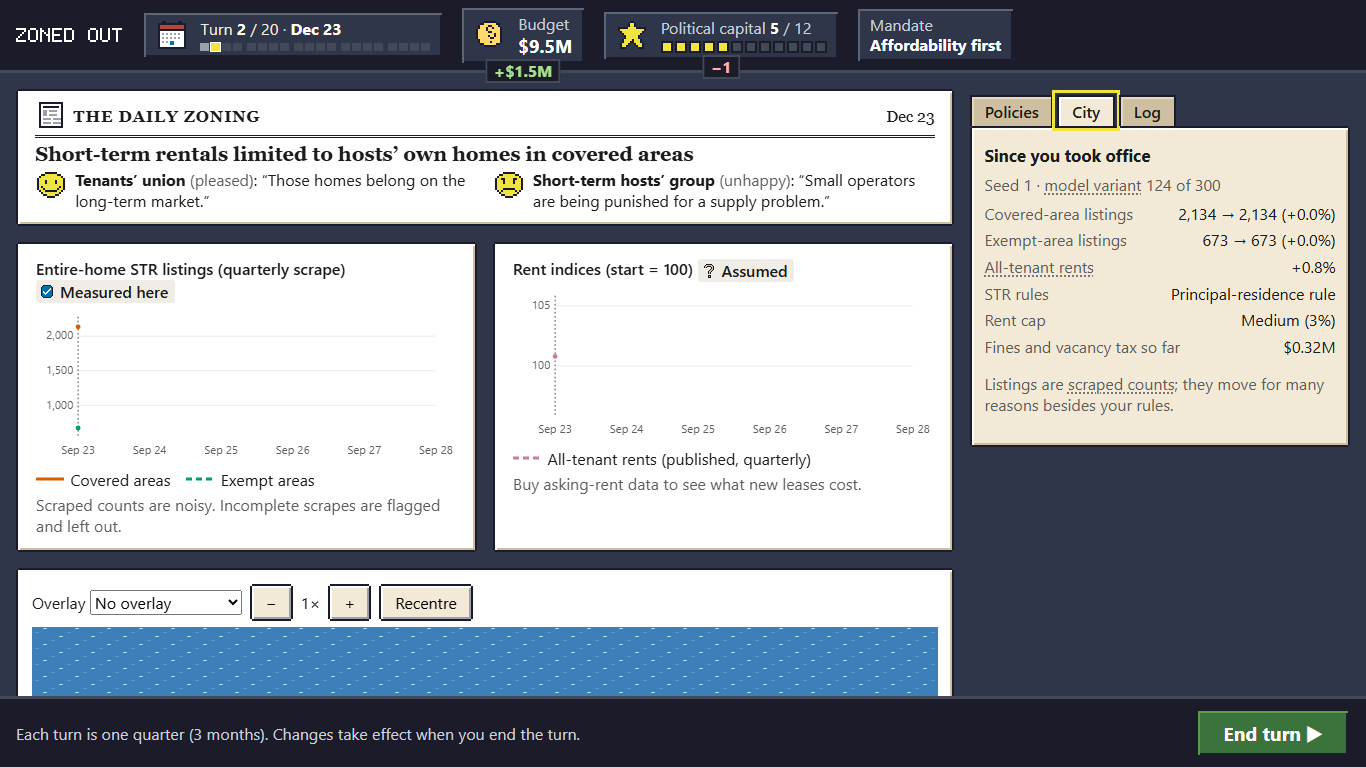
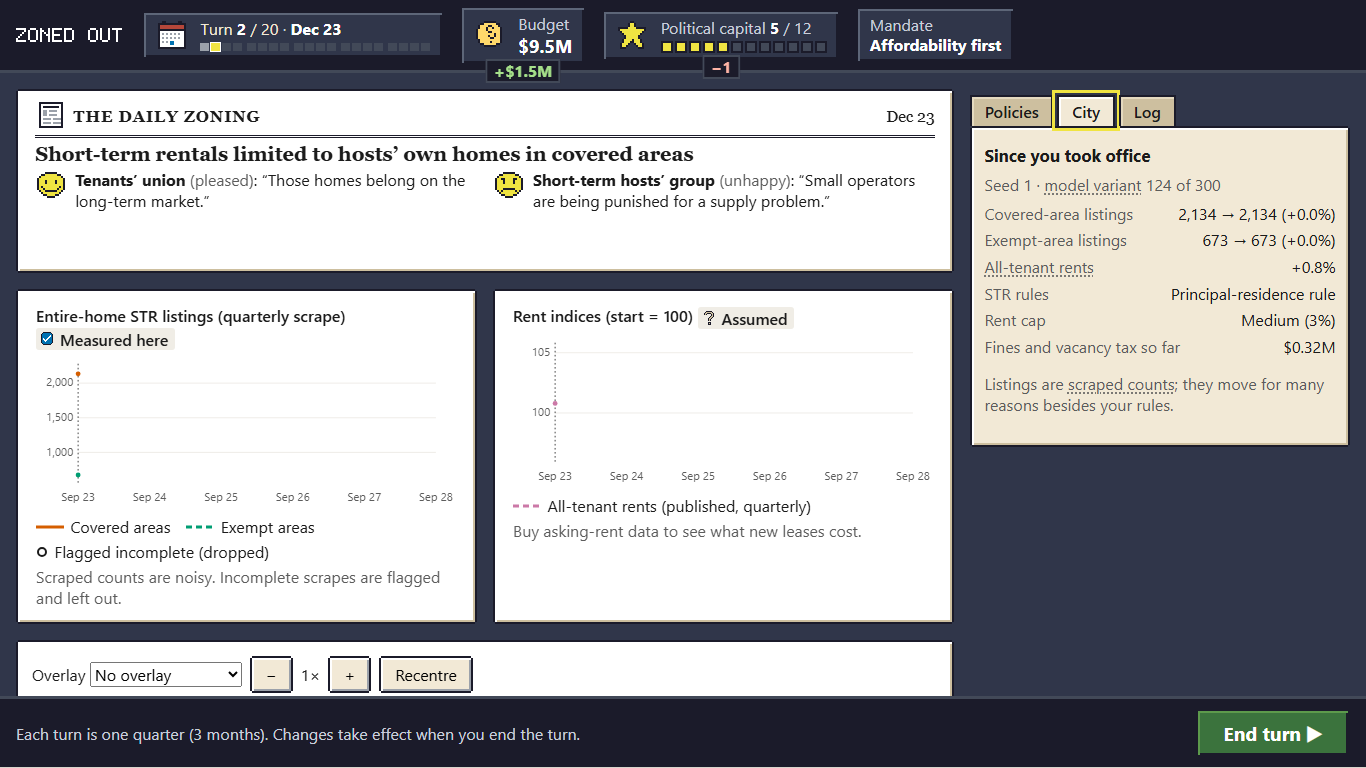
ui: stop the layout jumping between turns; steadier README animation
AtlasSprite drew into an unsized canvas, which is 300 x 150 px until the
atlas promise resolves: on every new turn the shock icon, the paper's
masthead and the reaction faces briefly took that size, so the shock
card ballooned to ~500 px and pushed the charts below the fold at
1366 x 768. The canvas is now sized in markup from the atlas frame and
drawn in a layout effect, using the atlas synchronously once loaded.

The news row reserves its usual height and the listings chart always
shows the "flagged incomplete" legend entry, so ordinary turns no longer
move the charts or the map (measured: identical positions from turn 1
to 19 on seeds 1-4).

README animation: turns 1-19 through one fixed clip rectangle (the spec
fails on any layout shift), longer holds on the first and last frames,
no end-of-term frame (the scorecard replaced the paper and shoved
everything down). 451 KB instead of 1.25 MB. The debrief still now sits
under the animation as the payoff.

diff --git a/apps/web/e2e/media.spec.ts b/apps/web/e2e/media.spec.ts
@@ -1,12 +1,15 @@
 import { expect, test } from '@playwright/test';
-import { mkdirSync } from 'node:fs';
+import { mkdirSync, rmSync } from 'node:fs';
 import { dirname, resolve } from 'node:path';
 import { fileURLToPath } from 'node:url';
 
 /**
- * README media: frames of one term for the GIF (assembled by scripts/make_gif.py)
- * and a debrief still. Opt-in, because it is slow and only needed when the UI changes:
- *   MEDIA=1 npx playwright test e2e/media.spec.ts && node scripts/py.mjs ... (see README)
+ * README media: frames of one term for the GIF (assembled by scripts/make_gif.py), and stills of
+ * the debrief. The GIF covers turns 1-19 through one fixed clip rectangle: the layout is stable
+ * over those turns (the test checks it), so nothing jumps between frames. Turn 0 (no paper, empty
+ * charts) and the end-of-term screen, where the scorecard takes the paper's place, are not turns
+ * of play. Opt-in, because it is slow and only needed when the UI changes:
+ *   MEDIA=1 npx playwright test e2e/media.spec.ts, then scripts/make_gif.py (see README)
  */
 const ROOT = resolve(dirname(fileURLToPath(import.meta.url)), '../../..');
 const FRAMES = resolve(ROOT, 'apps/web/test-results/media-frames');
@@ -16,6 +19,7 @@ test.skip(!process.env.MEDIA, 'set MEDIA=1 to regenerate the README media');
 
 test('README frames and stills', async ({ page }) => {
   test.setTimeout(240_000);
+  rmSync(FRAMES, { recursive: true, force: true });
   mkdirSync(FRAMES, { recursive: true });
   mkdirSync(MEDIA, { recursive: true });
   await page.emulateMedia({ reducedMotion: 'reduce' });
@@ -26,11 +30,19 @@ test('README frames and stills', async ({ page }) => {
   const endTurn = page.getByTestId('end-turn');
   await expect(endTurn).toBeEnabled({ timeout: 30_000 });
   await page.getByRole('button', { name: 'Skip the tutorial' }).click();
-  const left = page.locator('section.left');
   let frame = 0;
-  const shot = async () =>
-    left.screenshot({ path: `${FRAMES}/f${String(frame++).padStart(3, '0')}.png` });
-  await shot();
+  let clip: { x: number; y: number; width: number; height: number } | null = null;
+  let anchor: number | null = null;
+  const shot = async () => {
+    await page.evaluate(() => document.querySelector('section.left')?.scrollTo(0, 0));
+    const box = (await page.locator('section.left').boundingBox())!;
+    const chartsTop = (await page.locator('.charts').boundingBox())!.y;
+    clip ??= { x: box.x, y: box.y, width: box.width, height: 1000 };
+    anchor ??= chartsTop;
+    // A layout shift would make the GIF jump: fail instead of recording it.
+    expect(Math.round(chartsTop)).toBe(Math.round(anchor));
+    await page.screenshot({ path: `${FRAMES}/f${String(frame++).padStart(3, '0')}.png`, clip });
+  };
   for (let turn = 1; turn <= 20; turn++) {
     if (turn === 3) {
       await page.getByLabel(/Principal-residence rule/).check();
@@ -40,8 +52,7 @@ test('README frames and stills', async ({ page }) => {
     await endTurn.click();
     if (turn < 20) await expect(endTurn).toBeEnabled({ timeout: 15_000 });
     else await expect(page.getByTestId('over')).toBeVisible({ timeout: 30_000 });
-    await page.evaluate(() => document.querySelector('section.left')?.scrollTo(0, 0));
-    await shot();
+    if (turn < 20) await shot();
   }
   await page.getByRole('button', { name: 'Open the debrief' }).click();
   const debrief = page.getByTestId('debrief');

diff --git a/apps/web/src/ui/AtlasSprite.tsx b/apps/web/src/ui/AtlasSprite.tsx
@@ -1,25 +1,36 @@
-import { useEffect, useRef, useState } from 'preact/hooks';
+import { useEffect, useLayoutEffect, useRef, useState } from 'preact/hooks';
 import type { Atlas } from '../render/iso/atlas.ts';
-import { loadAtlas } from '../render/iso/atlas.ts';
+import { loadAtlas, peekAtlas } from '../render/iso/atlas.ts';
 
-/** One atlas frame drawn at an integer scale (decorative: the surrounding text carries meaning). */
+/**
+ * One atlas frame drawn at an integer scale (decorative: the surrounding text carries meaning).
+ * The canvas is sized in markup from the frame (0 x 0 until the atlas has loaded), never the
+ * browser default of 300 x 150, and drawn before paint, so a new sprite does not shift the layout.
+ */
 export function AtlasSprite({ name, scale = 2 }: { name: string; scale?: number }) {
   const ref = useRef<HTMLCanvasElement>(null);
-  const [atlas, setAtlas] = useState<Atlas | null>(null);
+  const [atlas, setAtlas] = useState<Atlas | null>(peekAtlas);
   useEffect(() => {
-    loadAtlas().then(setAtlas, () => setAtlas(null));
+    if (!atlas) loadAtlas().then(setAtlas, () => setAtlas(null));
   }, []);
-  useEffect(() => {
+  const f = atlas?.frames[name];
+  useLayoutEffect(() => {
     const c = ref.current;
-    const f = atlas?.frames[name];
     if (!c || !atlas || !f) return;
-    c.width = f.w * scale;
-    c.height = f.h * scale;
     const ctx = c.getContext('2d')!;
     ctx.imageSmoothingEnabled = false;
+    ctx.clearRect(0, 0, c.width, c.height);
     ctx.drawImage(atlas.image, f.x, f.y, f.w, f.h, 0, 0, f.w * scale, f.h * scale);
-  }, [atlas, name, scale]);
-  return <canvas ref={ref} class="atlas-sprite" aria-hidden="true" />;
+  }, [atlas, f, scale]);
+  return (
+    <canvas
+      ref={ref}
+      class="atlas-sprite"
+      width={f ? f.w * scale : 0}
+      height={f ? f.h * scale : 0}
+      aria-hidden="true"
+    />
+  );
 }
 
 /** Atlas icon for a shock card id (shocks.json). */

diff --git a/apps/web/src/ui/LineChart.tsx b/apps/web/src/ui/LineChart.tsx
@@ -45,6 +45,11 @@ interface Props {
   summary: string;
   /** Small print under the legend (data source, caveats). */
   note?: string;
+  /**
+   * Always show the legend entry for hollow (dropped) points, so the legend, and the layout below
+   * the chart, do not change when the first one appears.
+   */
+  hollowLegend?: boolean;
 }
 
 const W = 520;
@@ -81,6 +86,7 @@ export function LineChart({
   yFormat = String,
   summary,
   note,
+  hollowLegend = false,
 }: Props) {
   const all = [
     ...lines.flatMap((l) => l.points.map((p) => p.y)),
@@ -114,7 +120,7 @@ export function LineChart({
   const sy = (y: number) => M.top + ih - ((y - lo) / (hi - lo)) * ih;
   const xTicks: number[] = [];
   for (let x = 0; x <= xMax; x += 12) xTicks.push(x);
-  const hasHollow = lines.some((l) => l.points.some((p) => p.hollow));
+  const hasHollow = hollowLegend || lines.some((l) => l.points.some((p) => p.hollow));
 
   return (
     <figure class="chart">

diff --git a/apps/web/src/render/iso/atlas.ts b/apps/web/src/render/iso/atlas.ts
@@ -18,6 +18,12 @@ export interface Atlas {
 }
 
 let cached: Promise<Atlas> | null = null;
+let loaded: Atlas | null = null;
+
+/** The atlas if it has already loaded (lets sprites draw on their first render), else null. */
+export function peekAtlas(): Atlas | null {
+  return loaded;
+}
 
 export function loadAtlas(): Promise<Atlas> {
   cached ??= (async () => {
@@ -37,7 +43,8 @@ export function loadAtlas(): Promise<Atlas> {
     ctx.globalCompositeOperation = 'source-in';
     ctx.fillStyle = '#1b1b2a';
     ctx.fillRect(0, 0, ink.width, ink.height);
-    return { image, frames: json.frames, inkFont: ink };
+    loaded = { image, frames: json.frames, inkFont: ink };
+    return loaded;
   })();
   return cached;
 }

diff --git a/apps/web/src/ui/game.css b/apps/web/src/ui/game.css
@@ -507,6 +507,9 @@ input[type='range']:disabled {
 .news-row {
   display: grid;
   gap: 1rem;
+  /* Room for a headline, a line and two reactions, or a shock card beside the paper: ordinary turns
+     then leave the charts below where they were (no layout shift as the quarters go by). */
+  min-height: 11.5rem;
 }
 .news-row.two {
   grid-template-columns: minmax(0, 1fr) minmax(0, 1.5fr);

diff --git a/apps/web/src/ui/App.tsx b/apps/web/src/ui/App.tsx
@@ -325,6 +325,7 @@ function Play({ state, quote, setDraft, endTurn, setup }: Game) {
                 xLabel={label}
                 yFormat={(y) => fmt(y)}
                 markers={markers}
+                hollowLegend
                 lines={[
                   { label: 'Covered areas', points: view.covered, color: '#d55e00', dots: true },
                   {

diff --git a/scripts/make_gif.py b/scripts/make_gif.py
@@ -29,7 +29,8 @@ def main() -> int:
         Image.open(p).convert("RGB").quantize(colors=128, method=Image.Quantize.FASTOCTREE, dither=Image.Dither.NONE)
         for p in paths
     ]
-    durations = [1200] + [450] * (len(q) - 2) + [3000]
+    # Hold the first quarter, step through the term, hold the final state.
+    durations = [1500] + [550] * (len(q) - 2) + [3500]
     OUT.parent.mkdir(parents=True, exist_ok=True)
     q[0].save(OUT, save_all=True, append_images=q[1:], duration=durations, loop=0, optimize=True)
     print(f"wrote {OUT} ({len(q)} frames, {OUT.stat().st_size / 1024:.0f} KB)")

diff --git a/docs/adr/0012-game-feel-ui.md b/docs/adr/0012-game-feel-ui.md
@@ -64,3 +64,10 @@ Acceptance criteria (restated before implementing):
 - The floating deltas stay fully opaque and are removed on `animationend`: a fading text fails
   contrast while it fades (axe caught one mid-fade).
 - Focus rings on dark surfaces use the palette yellow (9:1) instead of orange (3.1:1 there).
+- **Layout stability (2026-10-13).** Between turns nothing above the charts may change height, so
+  the charts never move while the player watches them update. Three fixes: `AtlasSprite` sizes its
+  canvas from the atlas frame in markup and draws before paint (an unsized canvas is 300 × 150 px
+  until drawn, which ballooned the shock card to about 500 px and pushed the charts below the fold
+  at 1366 × 768); the news row reserves 11.5 rem; the listings chart always shows its "flagged
+  incomplete" legend entry. Measured over 20 turns on seeds 1-4 at 1366 px, the charts stay at the
+  same position from turn 1 to 19; `media.spec.ts` fails if they move between GIF frames.

diff --git a/README.md b/README.md
@@ -14,6 +14,11 @@ happened.
 
 ![One term of play: the quarterly paper, listings and rent charts above the isometric city](docs/media/zoned-out.gif)
 
+At the end of the term, the debrief replays your decisions in 32 calibrated model variants and
+shows what really happened, against what the noisy data let you see:
+
+![Debrief: effect of your term on covered-area listings and asking rents, your world against the spread of model variants](docs/media/debrief-fans.png)
+
 ## At a glance
 
 My [first project](https://github.com/haji5/bc-str-ban-analysis) estimated the effect of BC's
